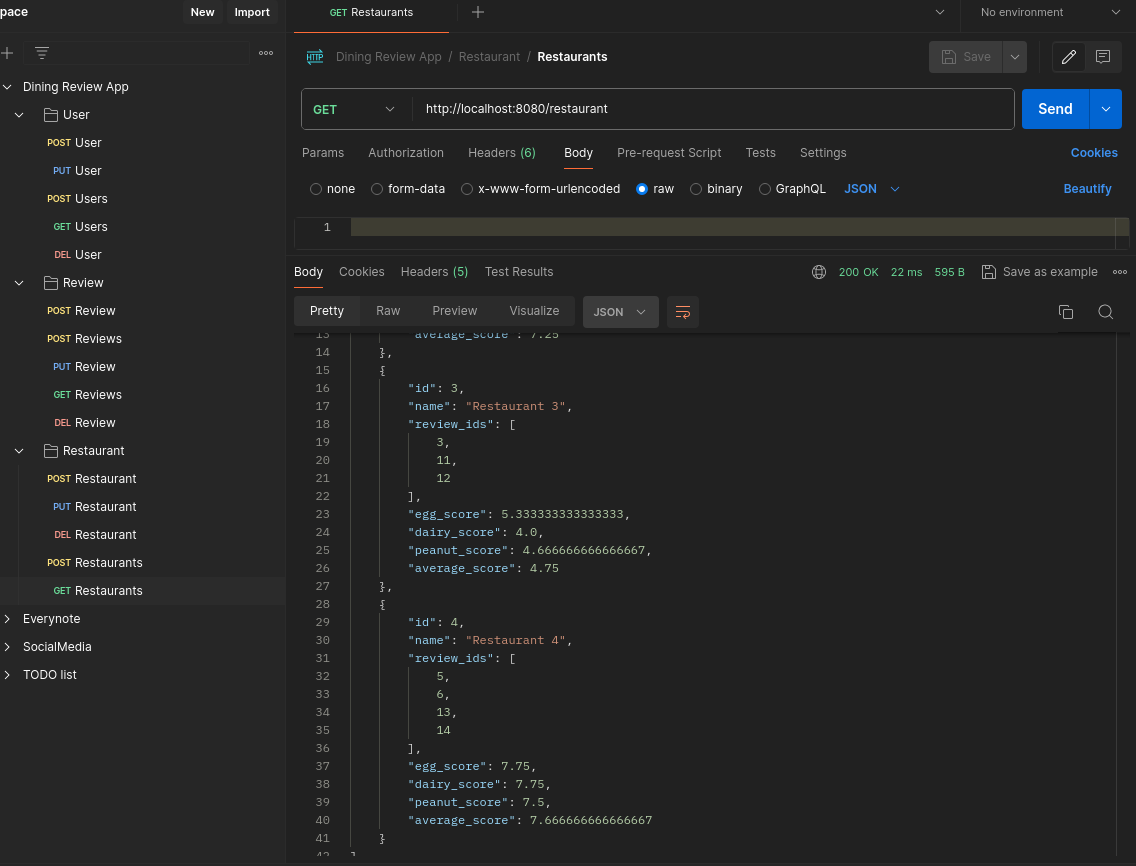
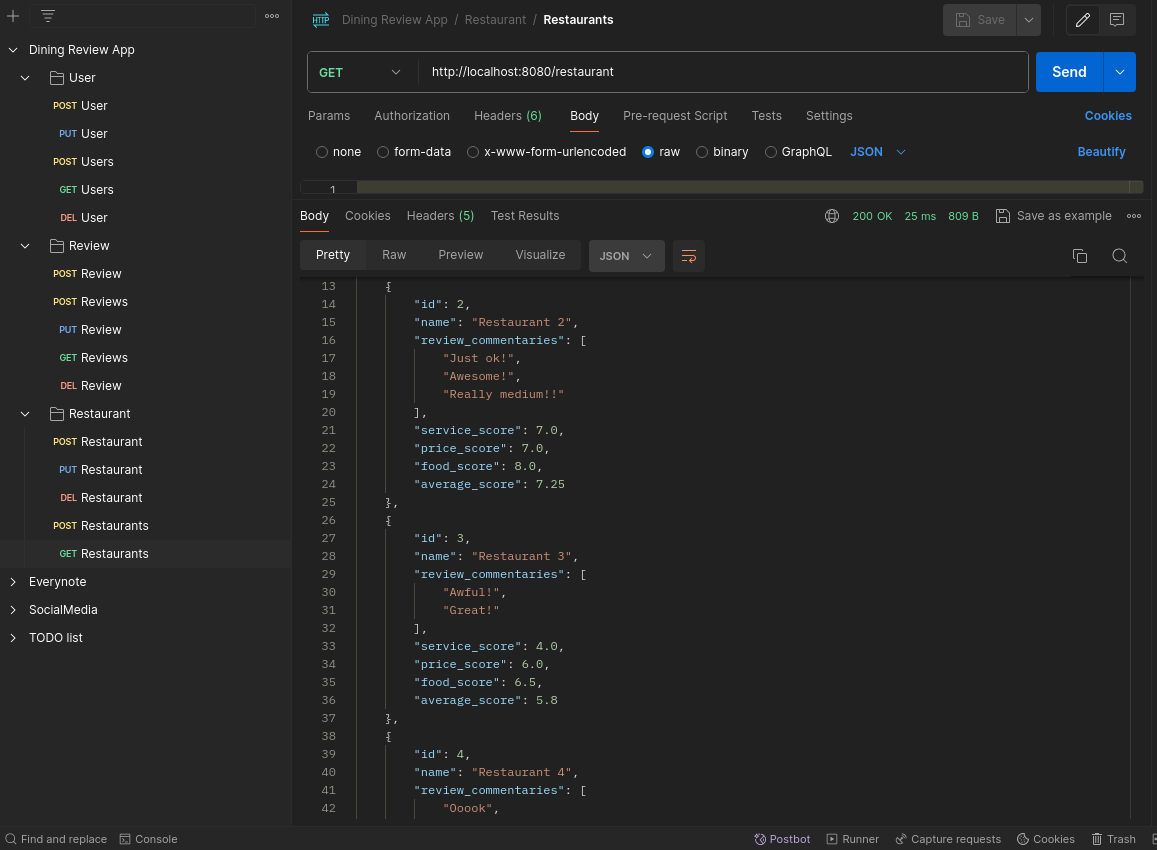
Updating review method

diff --git a/Dining Review App/src/main/java/com/example/diningreviewapp/model/Restaurant.java b/Dining Review App/src/main/java/com/example/diningreviewapp/model/Restaurant.java
@@ -23,70 +23,70 @@ public class Restaurant {
 
         restaurantDto.setId(restaurant.getId());
         restaurantDto.setName(restaurant.getName());
-        restaurantDto.setEgg_score(restaurant.egg_score());
-        restaurantDto.setDairy_score(restaurant.dairy_score());
-        restaurantDto.setPeanut_score(restaurant.peanut_score());
+        restaurantDto.setService_score(restaurant.service_score());
+        restaurantDto.setPrice_score(restaurant.price_score());
+        restaurantDto.setFood_score(restaurant.food_score());
         restaurantDto.setAverage_score(restaurant.average_score());
 
-        List<Long> review_ids = new ArrayList<>();
-        for (Review r: restaurant.getReviews()) review_ids.add(r.getId());
+        List<String> review_commentaries = new ArrayList<>();
+        for (Review r: restaurant.getReviews()) review_commentaries.add(r.getCommentary());
 
-        restaurantDto.setReview_ids(review_ids);
+        restaurantDto.setReview_commentaries(review_commentaries);
         return restaurantDto;
     }
     public void addReview(Review r){
         reviews.add(r);
     }
-    public Double egg_score(){
+    public Double service_score(){
         double score = .0;
-        int egg_score_size = 0;
+        int service_score_size = 0;
         for (Review r: this.reviews) {
-            if (r.getEgg_score() != null) {
-                score += r.getEgg_score();
-                egg_score_size += 1;
+            if (r.getService_score() != null) {
+                score += r.getService_score();
+                service_score_size += 1;
             }
         }
-        score/=egg_score_size;
+        score/=service_score_size;
         return score;
     }
-    public Double dairy_score(){
+    public Double price_score(){
         double score = .0;
-        int dairy_score_size = 0;
+        int price_score_size = 0;
         for (Review r: this.reviews){
-            if (r.getDairy_score()!=null){
-                score+=r.getDairy_score();
-                dairy_score_size+=1;
+            if (r.getPrice_score()!=null){
+                score+=r.getPrice_score();
+                price_score_size+=1;
             }
         }
-        score/=dairy_score_size;
+        score/=price_score_size;
         return score;
     }
-    public Double peanut_score(){
+    public Double food_score(){
         double score = .0;
-        int peanut_score_size = 0;
+        int food_score_size = 0;
         for (Review r: this.reviews){
-            if (r.getPeanut_score()!=null){
-                score+=r.getPeanut_score();
-                peanut_score_size+=1;
+            if (r.getFood_score()!=null){
+                score+=r.getFood_score();
+                food_score_size+=1;
             }
         }
-        score/=peanut_score_size;
+        score/=food_score_size;
         return score;
     }
     public Double average_score(){
         double score = .0;
         int score_size = 0;
         for (Review r: this.reviews) {
-            if (r.getEgg_score() != null) {
-                score += r.getEgg_score();
+            if (r.getService_score() != null) {
+                score += r.getService_score();
                 score_size += 1;
             }
-            if (r.getDairy_score()!=null){
-                score+=r.getDairy_score();
+            if (r.getPrice_score()!=null){
+                score+=r.getPrice_score();
                 score_size+=1;
             }
-            if (r.getPeanut_score()!=null){
-                score+=r.getPeanut_score();
+            if (r.getFood_score()!=null){
+                score+=r.getFood_score();
                 score_size+=1;
             }
         }

diff --git a/Dining Review App/src/main/java/com/example/diningreviewapp/controller/ReviewController.java b/Dining Review App/src/main/java/com/example/diningreviewapp/controller/ReviewController.java
@@ -27,7 +27,7 @@ public class ReviewController {
 
     @GetMapping()
     public Iterable<ReviewDto> getAllReviews() {
-        List<ReviewDto> reviewDtos = new ArrayList<ReviewDto>();
+        List<ReviewDto> reviewDtos = new ArrayList<>();
         for (Review r: this.reviewRepository.findAll()){
             reviewDtos.add(Review.EntityToDto(r));
         }
@@ -53,9 +53,9 @@ public class ReviewController {
         // Since isPresent() was true, we can .get() the Review object out of the Optional <<<<------
         Review reviewToUpdate = reviewToUpdateOptional.get();
 
-        if (r.getPeanut_score() != null)  reviewToUpdate.setPeanut_score(r.getPeanut_score());
-        if (r.getEgg_score() != null)  reviewToUpdate.setEgg_score(r.getEgg_score());
-        if (r.getDairy_score() != null)  reviewToUpdate.setDairy_score(r.getDairy_score());
+        if (r.getFood_score() != null)  reviewToUpdate.setFood_score(r.getFood_score());
+        if (r.getService_score() != null)  reviewToUpdate.setService_score(r.getService_score());
+        if (r.getPrice_score() != null)  reviewToUpdate.setPrice_score(r.getPrice_score());
         if (r.getCommentary() != null)  reviewToUpdate.setCommentary(r.getCommentary());
         this.reviewRepository.save(reviewToUpdate);
         return Review.EntityToDto(reviewToUpdate);
@@ -75,9 +75,9 @@ public class ReviewController {
     private ReviewDto saveReviewFromDto(ReviewDto reviewDto) {
         Review review = new Review();
         review.setCommentary(reviewDto.getCommentary());
-        review.setPeanut_score(reviewDto.getPeanut_score());
-        review.setEgg_score(reviewDto.getEgg_score());
-        review.setDairy_score(reviewDto.getDairy_score());
+        review.setFood_score(reviewDto.getFood_score());
+        review.setService_score(reviewDto.getService_score());
+        review.setPrice_score(reviewDto.getPrice_score());
 
         Integer user_id = reviewDto.getUser_id() != null ? reviewDto.getUser_id().intValue() : null;
         Optional<User> optionalUser = this.userRepository.findById(user_id);

diff --git a/Dining Review App/src/main/java/com/example/diningreviewapp/model/Review.java b/Dining Review App/src/main/java/com/example/diningreviewapp/model/Review.java
@@ -20,17 +20,17 @@ public class Review {
     @JoinColumn(name = "restaurant_id", referencedColumnName = "id")
     private Restaurant restaurant;
 
-    private Double peanut_score = null;
-    private Double egg_score = null;
-    private Double dairy_score = null;
+    private Double food_score = null;
+    private Double service_score = null;
+    private Double price_score = null;
     private String commentary = null;
 
     public static ReviewDto EntityToDto(Review review){
         ReviewDto reviewDto = new ReviewDto();
         reviewDto.setId(review.getId());
-        reviewDto.setPeanut_score(review.getPeanut_score());
-        reviewDto.setEgg_score(review.getEgg_score());
-        reviewDto.setDairy_score(review.getDairy_score());
+        reviewDto.setFood_score(review.getFood_score());
+        reviewDto.setService_score(review.getService_score());
+        reviewDto.setPrice_score(review.getPrice_score());
         reviewDto.setCommentary(review.getCommentary());
         reviewDto.setUser_id(review.user.getId());
         reviewDto.setRestaurant_id(review.restaurant.getId());

diff --git a/Dining Review App/src/main/java/com/example/diningreviewapp/DTO/RestaurantDto.java b/Dining Review App/src/main/java/com/example/diningreviewapp/DTO/RestaurantDto.java
@@ -6,9 +6,9 @@ import java.util.List;
 public class RestaurantDto {
     private Long id;
     private String name;
-    private List<Long> review_ids = new ArrayList<Long>();
-    private Double egg_score = .0;
-    private Double dairy_score = .0;
-    private Double peanut_score = .0;
+    private List<String> review_commentaries = new ArrayList<>();
+    private Double service_score = .0;
+    private Double price_score = .0;
+    private Double food_score = .0;
     private Double average_score = .0;
 }

diff --git a/Dining Review App/src/main/java/com/example/diningreviewapp/DTO/ReviewDto.java b/Dining Review App/src/main/java/com/example/diningreviewapp/DTO/ReviewDto.java
@@ -7,8 +7,8 @@ public class ReviewDto {
     private Long id;
     private Long user_id;
     private Long restaurant_id;
-    private Double peanut_score = null;
-    private Double egg_score = null;
-    private Double dairy_score = null;
+    private Double food_score = null;
+    private Double service_score = null;
+    private Double price_score = null;
     private String commentary = null;
 }
